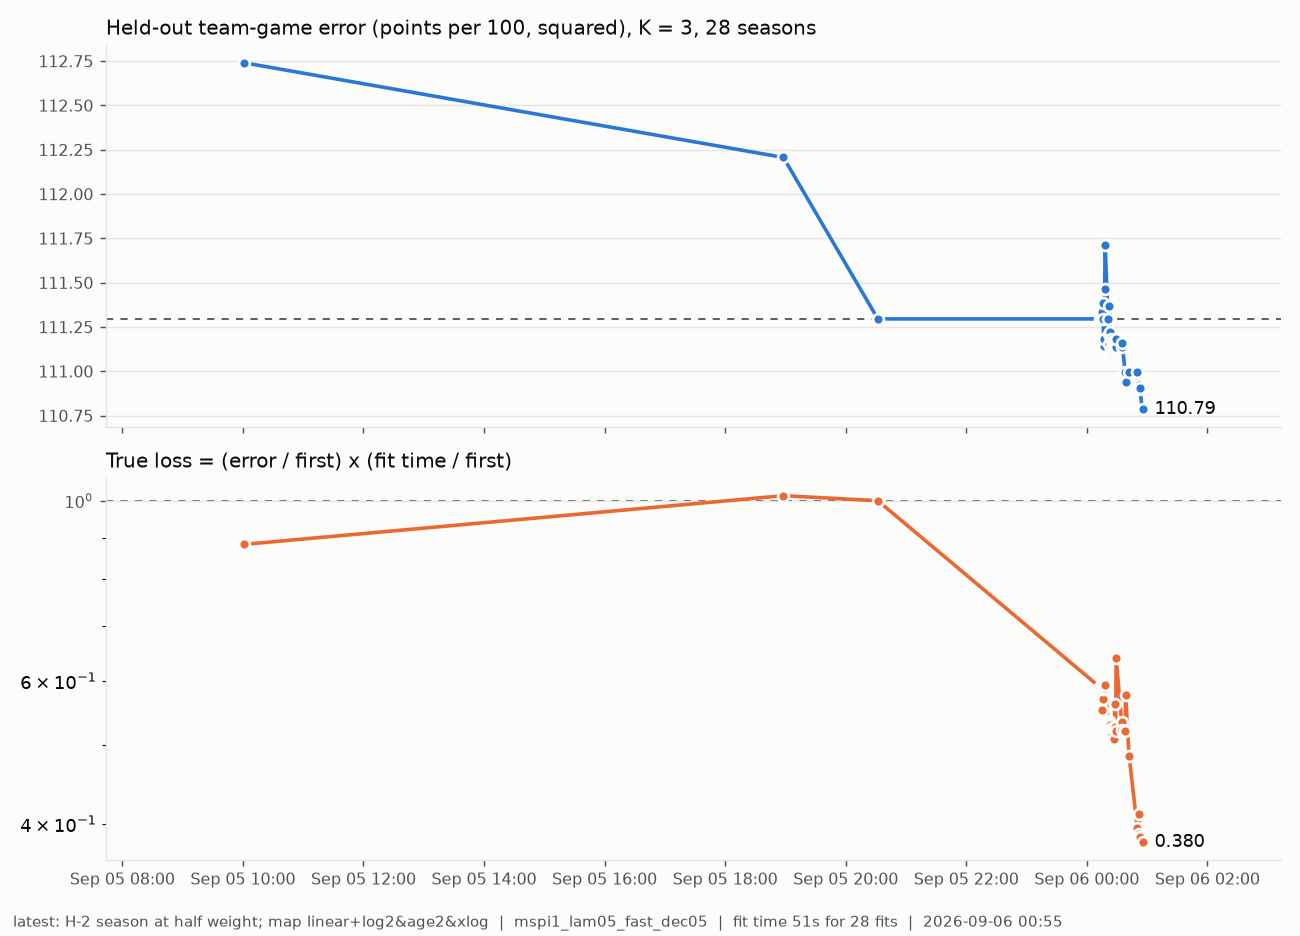
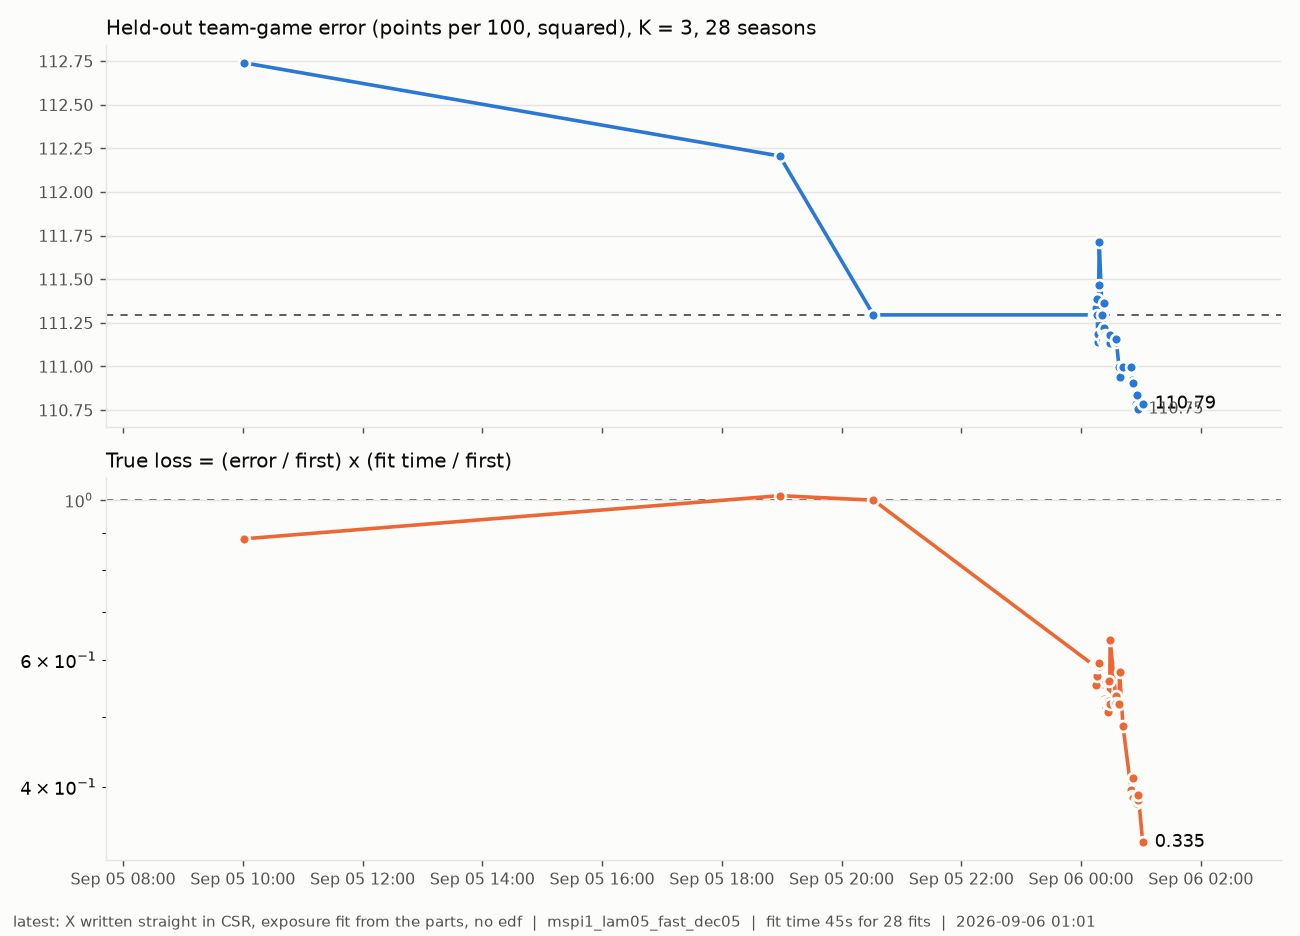
Design straight in CSR, exposure from parts, no edf: 45 s per 28 fits at 110.79 (true loss 0.33)

diff --git a/src/eracoef/exposure.py b/src/eracoef/exposure.py
@@ -179,18 +179,28 @@ class BoxExposure(BaseEstimator, TransformerMixin):
 
     # ------------------------------------------------------------------ sklearn API
     def fit(self, X, y=None, sample_weight=None):
-        X = check_array(X, accept_sparse="csr")
+        """`X` may be None when `self.parts` (WindowData.parts: game_idx, lineup_o, lineup_d) is set: the fit then
+        never touches the design matrix."""
+        parts = getattr(self, "parts", None)
         spec = self.spec
+        if X is None:
+            if parts is None:
+                raise ValueError("fit(None) needs `parts`")
+            n_rows = len(parts["game_idx"])
+            self.n_features_in_ = 2 * spec.n_ps + len(spec.f_names) + 1
+        else:
+            X = check_array(X, accept_sparse="csr")
+            n_rows = X.shape[0]
+            self.n_features_in_ = X.shape[1]
         feats = self._feature_list()
         n_feat = len(feats)
-        self.n_features_in_ = X.shape[1]
         self.feature_names_ = feats
         n_ps = spec.n_ps
         n_seasons = spec.n_seasons
         if self.pad_target not in TARGETS:
             raise ValueError(f"unknown pad_target {self.pad_target!r}; use one of {TARGETS}")
 
-        game_idx = self._game_idx(X)
+        game_idx = np.asarray(parts["game_idx"], dtype=np.int64) if X is None else self._game_idx(X)
         train_games = np.unique(game_idx)
         self.train_games_ = train_games
 
@@ -318,8 +328,8 @@ class BoxExposure(BaseEstimator, TransformerMixin):
         self.means_o_ = np.zeros(n_feat)
         self.means_d_ = np.zeros(n_feat)
         if self.center and n_feat:
-            Xo, Xd = self._exposures(X, game_idx)
-            wgt = np.ones(X.shape[0]) if sample_weight is None else np.asarray(sample_weight, dtype=float)
+            Xo, Xd = self._exposures_parts(parts, game_idx) if X is None else self._exposures(X, game_idx)
+            wgt = np.ones(n_rows) if sample_weight is None else np.asarray(sample_weight, dtype=float)
             self.means_o_ = (wgt[:, None] * Xo).sum(0) / wgt.sum()
             self.means_d_ = (wgt[:, None] * Xd).sum(0) / wgt.sum()
         return self
@@ -416,6 +426,19 @@ class BoxExposure(BaseEstimator, TransformerMixin):
         k = (self.pad_k_ps_ if side == "O" else self.pad_k_ps_d_)[ps]
         t = (self.target_ps_ if side == "O" else self.target_ps_d_)[ps]
         return self._pad_ps(C, P, P, k, t)
+
+    def _exposures_parts(self, parts, game_idx):
+        """`_exposures` from the design's own sorted lineups (WindowData.parts), the same sums in the same order."""
+        n_feat = len(self.feature_names_)
+        lo, ld = parts["lineup_o"], parts["lineup_d"]
+        n = lo.shape[0]
+        Xo = np.zeros((n, n_feat)); Xd = np.zeros((n, n_feat))
+        if n_feat == 0:
+            return Xo, Xd
+        for j in range(5):
+            Xo += self._rates_for(lo[:, j], game_idx, "O")
+            Xd += self._rates_for(ld[:, j], game_idx, "D")
+        return Xo, Xd
 
     def _exposures(self, X, game_idx):
         n_feat = len(self.feature_names_)

diff --git a/src/eracoef/fastfit.py b/src/eracoef/fastfit.py
@@ -40,9 +40,7 @@ def direct_layout(wd, exp, prior_offset: np.ndarray) -> _Layout:
     dense -> sparse -> dense round trip), Z and F as the design built them."""
     spec, parts = wd.spec, wd.parts
     n_feat = len(exp.feature_names_)
-    ro, rd = exp.rates_, exp.rates_d_
-    Xo = ro[parts["lineup_o"]].sum(axis=1) if n_feat else np.zeros((wd.X.shape[0], 0))
-    Xd = rd[parts["lineup_d"]].sum(axis=1) if n_feat else np.zeros((wd.X.shape[0], 0))
+    Xo, Xd = exp._exposures_parts(parts, parts["game_idx"])
     if exp.center and n_feat:
         Xo = Xo - exp.means_o_
         Xd = Xd - exp.means_d_
@@ -70,6 +68,7 @@ class MspiFast:
     lam_buckets: dict | None = None      # extra ridge multipliers per spec.col_groups name (low_poss, high_poss, ...)
     phases: tuple = ("RS",)              # ("RS", "PO"): train on the playoff stints too (the held-out scoring stays RS)
     decay: float | None = None           # rows of training season s weighted decay^(|s - H| - 1), H = ctx.current_h
+    decay_exposure: bool = False         # the same weights on the games behind the padded rates (BoxExposure.game_mult)
 
     def fit(self, train, ctx: Context) -> Ratings:
         from . import xshoot
@@ -90,7 +89,19 @@ class MspiFast:
             return ys[name]
 
         y_o, y_d = target_y(self.off_target), target_y(self.def_target)
-        exp = make_exposure(wd, mode="full", pad_target=cfg["pad_target"]).fit(wd.X, sample_weight=wd.w)
+        game_mult = None
+        if self.decay is not None and self.decay_exposure and ctx.current_h is not None:
+            g = wd.games
+            gm = np.ones(int(g["game_idx"].max()) + 1)
+            dist = np.abs(g["season"].to_numpy(dtype=float) - float(ctx.current_h))
+            gm[g["game_idx"].to_numpy()] = float(self.decay) ** np.maximum(dist - 1.0, 0.0)
+            game_mult = gm
+        exp = make_exposure(wd, mode="full", pad_target=cfg["pad_target"], game_mult=game_mult)
+        if wd.parts is not None:
+            exp.parts = wd.parts
+            exp.fit(None, sample_weight=wd.w)
+        else:
+            exp.fit(wd.X, sample_weight=wd.w)
         off = chain_offset(self.sides, self.mode, scale=self.scale, target=self.target,
                            params=self.gbdt_params)(train, ctx, wd, exp=exp)
         nf = len(wd.spec.features)
@@ -111,6 +122,7 @@ class MspiFast:
             X, _, _ = mm._validate(exp.transform(wd.X), np.asarray(y_o, dtype=float), wd.w)
             layout = mm._layout(X)
         mom = Moments(layout, np.asarray(y_o, dtype=float), w, mm._season_cols(), mm._scale())
+        mom.want_edf = False
         u = {"o": np.asarray(mom.solve_chol(lam).u, dtype=float)}
         u["d"] = np.asarray(mom.with_y(layout, np.asarray(y_d, dtype=float), w).solve_chol(lam).u, dtype=float)
         df = pd.DataFrame({"player_id": wd.spec.ps_table["player_id"].to_numpy(),

diff --git a/src/eracoef/designcache.py b/src/eracoef/designcache.py
@@ -163,14 +163,23 @@ def build_window_cached(seasons, cfg, phases=("RS",), gt_weight=None, target="pt
 
     f_names = ["home"] + [f"int_{s}" for s in ssn] + ["is_po", "po_home", "is_gt", "margin", "margin_frem"]
     f_cols = [home] + [(r_season == k).astype(float) for k in range(len(ssn))] + [r_po, r_po * home, r_gt, r_margin, r_margin * r_frem]
-    F = sp.csr_matrix(np.column_stack(f_cols))
-    rows_ar = np.repeat(np.arange(n), 5)
-    Z_O = sp.csr_matrix((np.ones(n * 5), (rows_ar, off.ravel())), shape=(n, n_ps))
-    Z_D = sp.csr_matrix((np.ones(n * 5), (rows_ar, de.ravel())), shape=(n, n_ps))
-    assert Z_O.nnz == n * 5 and Z_D.nnz == n * 5, "duplicate player ids inside a lineup"
-    G = sp.csr_matrix(r_game.astype(float)[:, None])
-    X = sp.hstack([Z_O, Z_D, F, G], format="csr")
-    X.sort_indices()
+    Fd = np.column_stack(f_cols)
+    n_f = Fd.shape[1]
+    # X = [Z_O | Z_D | F | G] written straight in CSR form: every row has the same pattern -- its five offensive
+    # units (sorted), its five defensive units (sorted, + n_ps), the n_f fixed columns (explicit values, zeros
+    # kept) and the game index -- so the indices are sorted as built and no hstack or sort is needed
+    lo, ld = np.sort(off, axis=1), np.sort(de, axis=1)
+    assert (np.diff(lo, axis=1) > 0).all() and (np.diff(ld, axis=1) > 0).all(), "duplicate player ids inside a lineup"
+    fcols = 2 * n_ps + np.arange(n_f + 1)
+    indices = np.hstack([lo, ld + n_ps, np.broadcast_to(fcols, (n, n_f + 1))]).ravel()
+    data = np.hstack([np.ones((n, 10)), Fd, r_game.astype(float)[:, None]]).ravel()
+    per_row = 10 + n_f + 1
+    indptr = np.arange(0, n * per_row + 1, per_row, dtype=np.int64)
+    X = sp.csr_matrix((data, indices, indptr), shape=(n, 2 * n_ps + n_f + 1))
+    X.has_sorted_indices = True
+    Z = sp.csr_matrix((np.ones(n * 10), np.hstack([lo, ld + n_ps]).ravel(), np.arange(0, n * 10 + 1, 10, dtype=np.int64)),
+                      shape=(n, 2 * n_ps))
+    Z.has_sorted_indices = True
     groups = groups_st[stint_i]
 
     # the side tables, block indices
@@ -219,7 +228,6 @@ def build_window_cached(seasons, cfg, phases=("RS",), gt_weight=None, target="pt
         for k in range(5):
             counters[f"pid_s{k + 1}"] = P[:, k]
         counters["half"] = rows["half"].to_numpy()
-    parts = dict(Z=X[:, :2 * n_ps], F=np.asarray(F.todense()), lineup_o=np.sort(off, axis=1), lineup_d=np.sort(de, axis=1),
-                 game_idx=r_game.astype(np.int64))
+    parts = dict(Z=Z, F=Fd, lineup_o=lo, lineup_d=ld, game_idx=r_game.astype(np.int64))
     return WindowData(X=X, y=y, w=w, groups=groups, spec=spec, game_box=game_box, game_poss=game_poss, rows=rows,
                       games=games, counters=counters, parts=parts)

diff --git a/src/eracoef/estimator.py b/src/eracoef/estimator.py
@@ -181,6 +181,8 @@ class Moments:
                 self.gs.append(g[cols] * c)
         self._eig = None
         self._facs = {}
+        self.want_edf = True       # the effective degrees of freedom need one n_s x n_s solve per block; a plain
+                                   # ratings fit (fastfit) does not read them
 
     def with_y(self, layout: _Layout, y, w) -> "Moments":
         """The same cross-products with a different response: only b, g and y'Wy change (one pass over
@@ -238,7 +240,8 @@ class Moments:
         for cols, Gs, Bs, gs, (cf, _) in zip(self.season_cols, self.Gs, self.Bs, self.gs, facs):
             us = sla.cho_solve(cf, gs - Bs.T @ theta, check_finite=False)
             u[cols] = us
-            edf += float(np.trace(sla.cho_solve(cf, Gs, check_finite=False)))
+            if self.want_edf:
+                edf += float(np.trace(sla.cho_solve(cf, Gs, check_finite=False)))
             quad += us @ Gs @ us + 2.0 * theta @ Bs @ us - 2.0 * us @ gs
         rss = self.yWy - 2.0 * theta @ self.b + theta @ self.A @ theta + quad
         sigma2 = rss / max(self.n - edf, 1.0)

diff --git a/src/eracoef/systems.py b/src/eracoef/systems.py
@@ -109,6 +109,11 @@ def registry(cfg, rankmap=None, calmap=None) -> dict:
         for d in (0.7, 0.5, 0.3):
             n = f"mspi1_lam05_fast_dec{d:g}".replace(".", "")
             S[n] = MspiFast(n, lam=L05, gbdt_params=FAST, decay=d)
+        for f in (0.35, 0.7):
+            n = f"mspi1_lam{f:g}_fast_dec05".replace(".", "")
+            S[n] = MspiFast(n, lam=float(cfg["lam_plugin"]) * f, gbdt_params=FAST, decay=0.5)
+        S["mspi1_lam05_fast_dec05x"] = MspiFast("mspi1_lam05_fast_dec05x", lam=L05, gbdt_params=FAST, decay=0.5, decay_exposure=True)
+        S["best"] = MspiFast("best", lam=L05, gbdt_params=FAST, decay=0.5)
         # one target for both sides (one solve): the opponent-3PM-replaced target on offense too
         S["mspi1_x3both"] = MspiFast("mspi1_x3both", off_target="x3def")
         # the APM-trained offense with the RAPM_1-trained defense (each side's calibrated version)

diff --git a/FINDINGS.md b/FINDINGS.md
@@ -1822,3 +1822,16 @@ On the decayed dump the map shapes read as before, now paired against `linear+sa
 `hinge+sat&age2` -0.04, `poly2+sat&age2` -0.04.  The score map from here is **`linear+log2&age2&xlog`**
 (per side: a rating scalar, a quadratic-in-log exposure level, a quadratic age level, a rating-by-log-exposure
 slope; 6 parameters), fitted leave-one-season-out as ever.
+
+Under the decay and the log map the ridge re-reads the same: x0.35 +0.06 (z +2.8, worse), x0.7 -0.02 (z -1.0);
+x0.5 stays.  The same season weights on the games behind the padded rates (`decay_exposure`, BoxExposure's
+`game_mult`) -0.03 (z -1.7, 15 of 28): not taken.  Skipping the effective-degrees-of-freedom trace in the
+solve (`Moments.want_edf`) takes a warm fit to 1.13 s, ratings unchanged.
+
+### 10. The clock, third pass: 45 s (true loss 0.33)
+
+The design matrix written straight in CSR form (every row has the same pattern: five sorted offensive units,
+five defensive, the fixed columns with explicit zeros, the game index; no hstack, no sort), Z built the same
+way, and BoxExposure fitted from the design's parts without touching X (`fit(None)` with `parts` set: the
+lineups and game index come from the assembly).  Assembly 0.26 s from 0.51 on the old path; every array equal;
+ratings equal to the dump to 1e-13; a warm fit 1.03 s.  `mspi1_lam05_fast_dec05`: 110.786 in 45.1 s.
